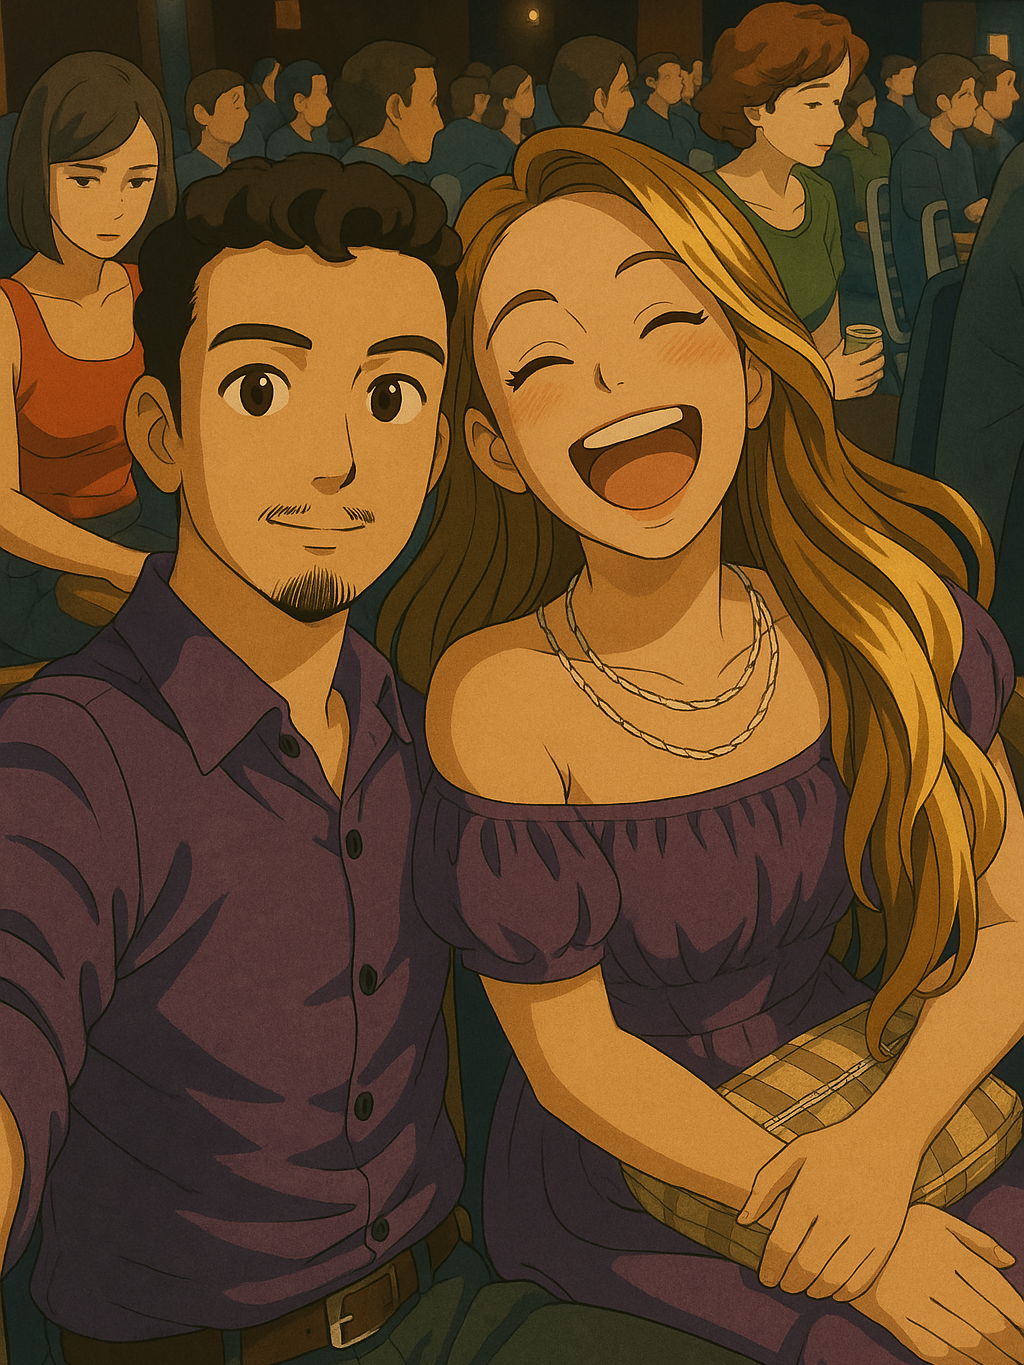
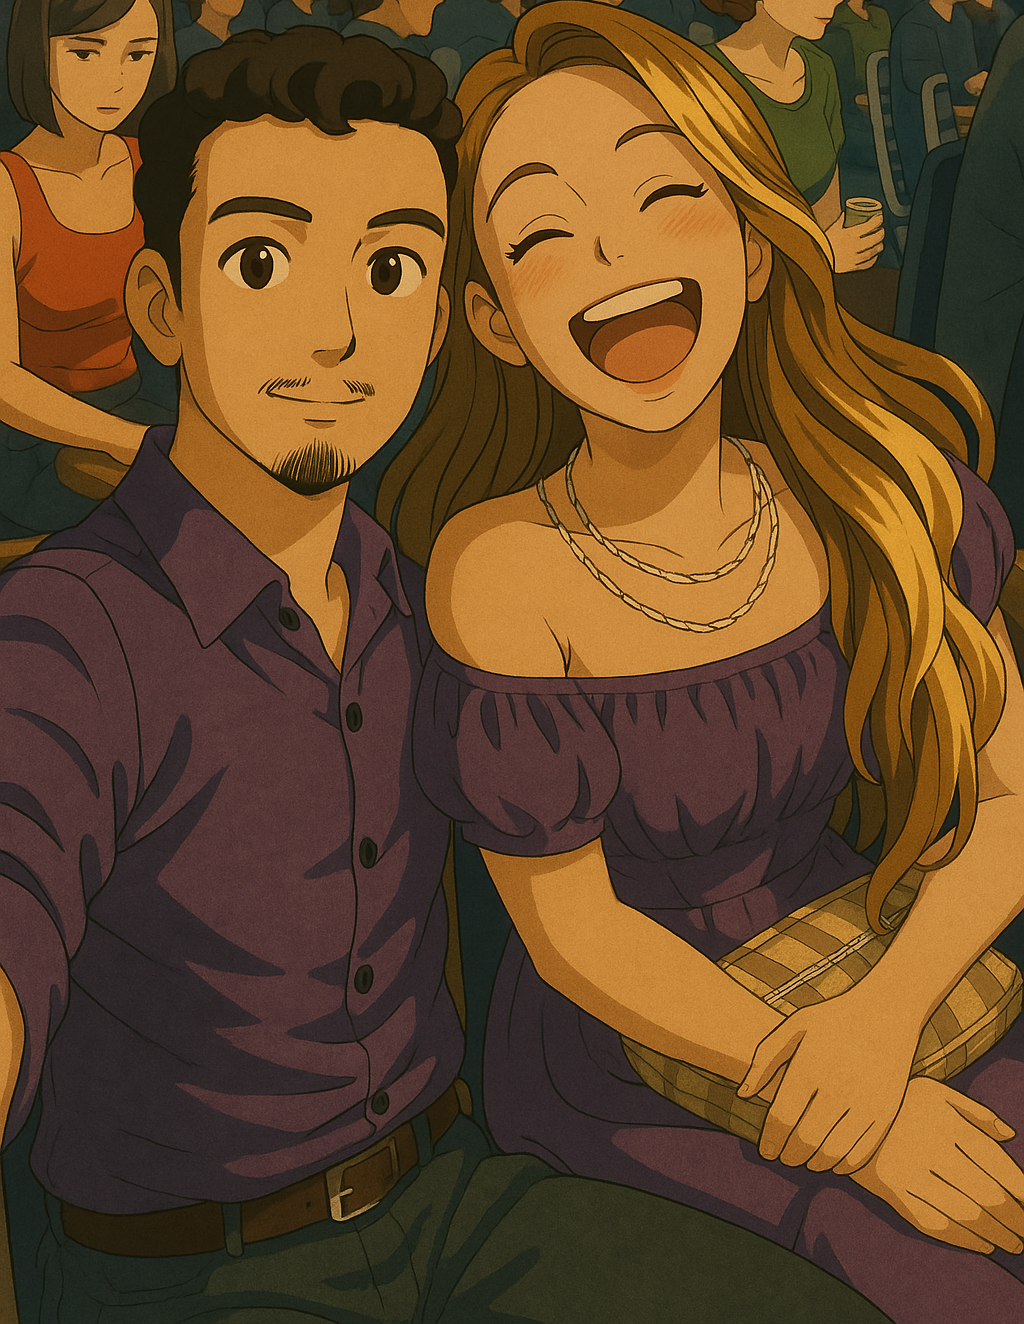
up

diff --git a/Segunda tela/index.html b/Segunda tela/index.html
@@ -48,7 +48,7 @@
     </section>
 
     <section style="margin-top: 1%;" class="margin">
-      <img class="animate from-left" src="src/img/Foto1.jpg" alt="Foto">
+      <img class="animate from-left" src="src/img/Foto11.jpg" alt="Foto">
       <div>
         <h2 class="animate from-right">Oque Penso Sobre Você</h2>
         <p class="animate from-right"><strong>Penso que você é meu porto seguro, meu parceiro de aventuras e o dono do melhor abraço do mundo. Penso nas vezes que a gente riu até a barriga doer. Penso nas vezes que a gente enfrentou coisa difícil de mãos dadas, e como você sempre me faz sentir que não tô sozinho(a) nessa. Você é aquele tipo de pessoa que faz o dia ficar mais leve, sabe? Mesmo quando tá tudo uma loucura, só de te olhar eu já encontro um motivo pra sorrir.
@@ -65,7 +65,7 @@
       <img class="animate from-right" src="src/img/Foto2.PNG" alt="Foto">
     </section>
     <section class="margin">
-      <img class="animate from-left" src="src/img/Foto3.jpg" alt="Foto">
+      <img class="animate from-left" src="src/img/Foto333.jpg" alt="Foto">
       <div>
         <h2 class="animate from-right">Você é muito Especial Para Mim</h2>
         <p class="animate from-right"><strong>Quero te agradecer por esses 9 anos de nós. Por cada risada, cada sonho que a gente planejou junto, cada noite assistindo série ruim só porque tava bom estar do seu lado. E quero te prometer que tô aqui pros próximos anos, pra viver mais um monte de Dias dos Namorados com você, com direito a mais histórias pra contar e, quem sabe, mais algumas brigas bobas que a gente resolve com um beijo.
